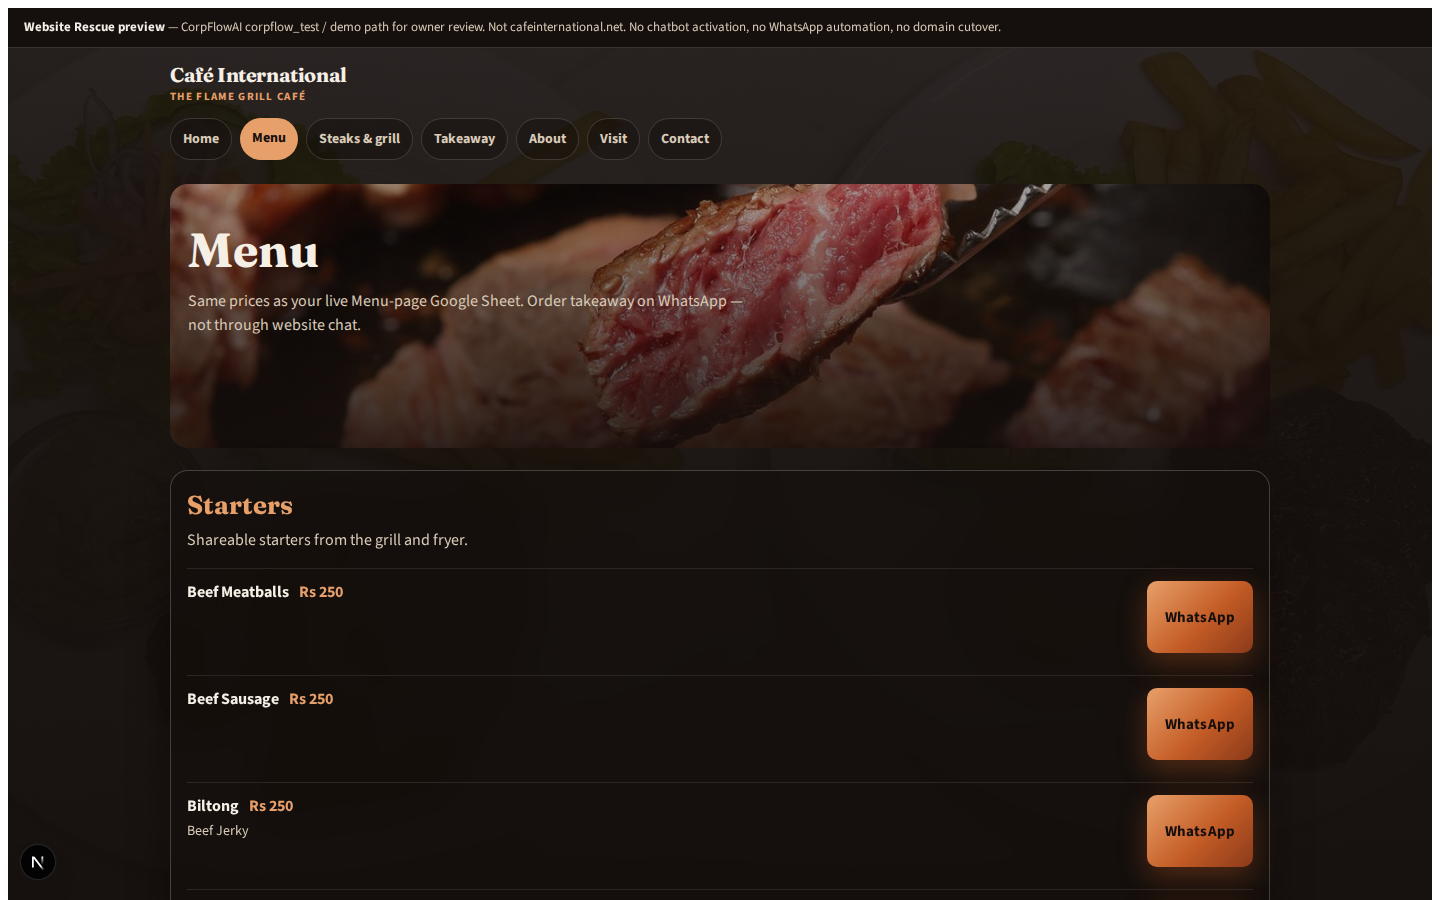
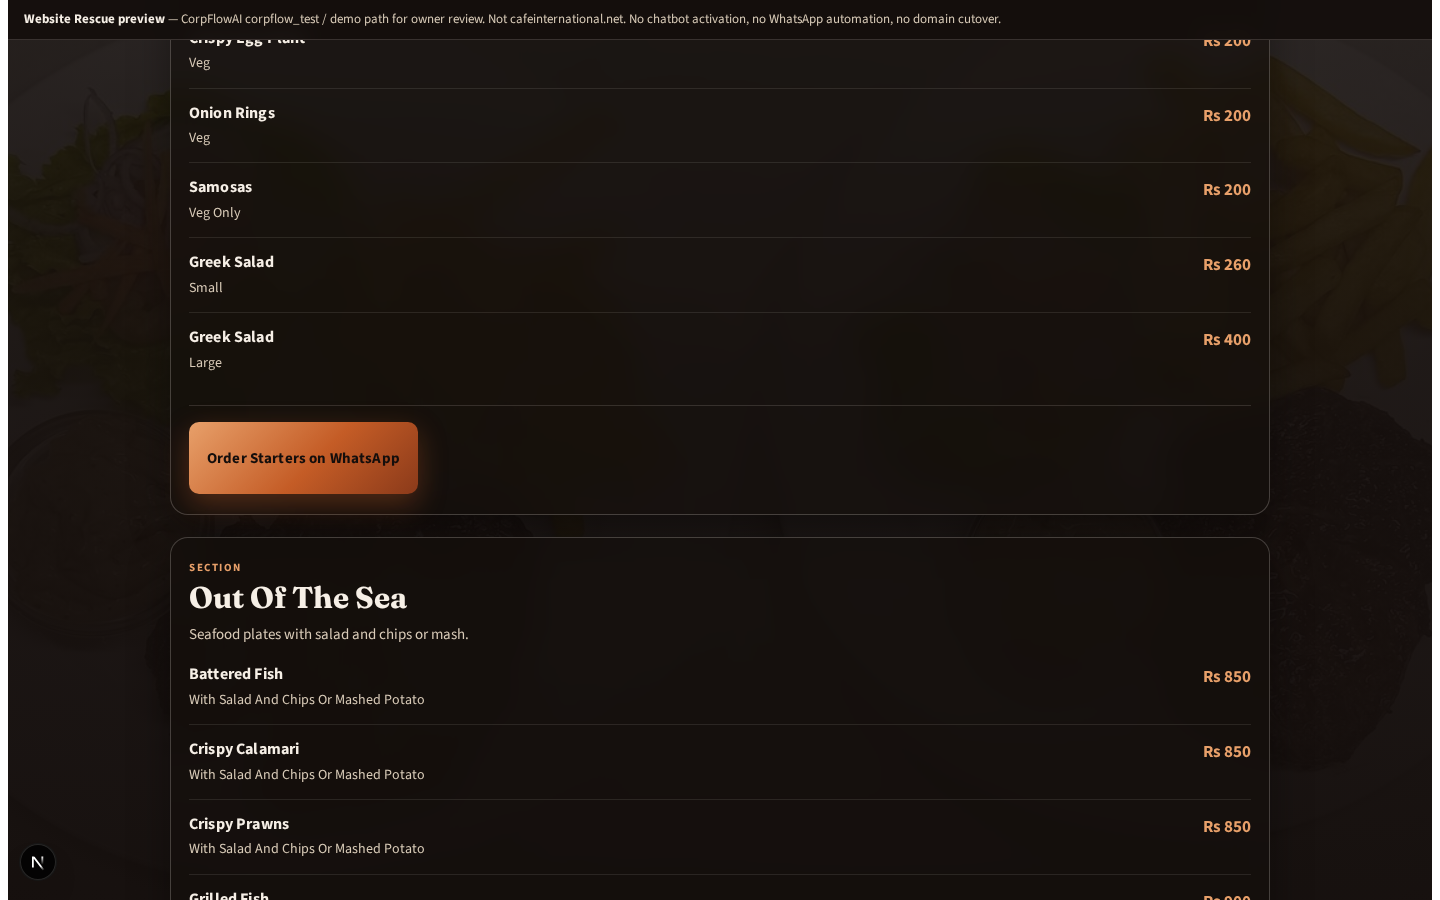
fix(cafe-international): one WhatsApp CTA per menu category
Remove repetitive per-item WhatsApp buttons. Menu sections now use
cleaner name/description/price rows with a single category-level
WhatsApp order CTA for a more restaurant-like scan.

diff --git a/pages/demo/cafe-international/menu.js b/pages/demo/cafe-international/menu.js
@@ -12,6 +12,28 @@ import {
 } from '../../../lib/website-rescue/cafe-international-preview.js';
 import { getCafeInternationalPreviewProps } from '../../../lib/website-rescue/cafe-international-preview-server.js';
 
+/** Short owner-facing WhatsApp CTA label per menu section. */
+function categoryWhatsAppLabel(categoryName) {
+  const name = String(categoryName || '').trim();
+  const map = {
+    Starters: 'Order Starters on WhatsApp',
+    'Out Of The Sea': 'Order Seafood on WhatsApp',
+    'For The Kids Under 10': 'Order Kids Meals on WhatsApp',
+    'From our Grill': 'Order Grill Specials on WhatsApp',
+    Platters: 'Order Platters on WhatsApp',
+    'Build a Burger': 'Order Burgers on WhatsApp',
+    'Topping, Chips and Sauce': 'Ask about toppings on WhatsApp',
+    'Sweet Endings Playground': 'Order Desserts on WhatsApp',
+    Drinks: 'Order Drinks on WhatsApp',
+  };
+  return map[name] || `Ask about ${name || 'this menu'} on WhatsApp`;
+}
+
+function categoryWhatsAppPrefill(categoryName) {
+  const label = String(categoryName || 'the menu').trim();
+  return `Hi Flame! I'd like to order from ${label}.\n\nPlease confirm availability and pickup time.`;
+}
+
 export default function CafeInternationalMenuPage({ truth, menu, nav }) {
   const categories = (menu.categories || []).filter((c) => c.id !== 'extras');
 
@@ -24,6 +46,28 @@ export default function CafeInternationalMenuPage({ truth, menu, nav }) {
       activeHref={`${CAFE_INTERNATIONAL_PREVIEW_BASE}/menu`}
       truth={truth}
     >
+      <style>{`
+        [data-cafe-menu-item] {
+          display: grid;
+          grid-template-columns: minmax(0, 1fr) auto;
+          gap: 8px 16px;
+          align-items: start;
+          padding: 14px 0;
+          border-top: 1px solid rgba(246,239,230,0.1);
+        }
+        [data-cafe-menu-item]:first-of-type { border-top: none; padding-top: 4px; }
+        @media (max-width: 560px) {
+          [data-cafe-menu-item] {
+            grid-template-columns: 1fr;
+            gap: 4px;
+          }
+          [data-cafe-menu-price] {
+            justify-self: start !important;
+            font-size: 16px !important;
+          }
+        }
+      `}</style>
+
       <div
         style={{
           borderRadius: 18,
@@ -50,73 +94,145 @@ export default function CafeInternationalMenuPage({ truth, menu, nav }) {
           Menu
         </h1>
         <p style={{ marginTop: 10, color: T.creamMuted, maxWidth: 560, lineHeight: 1.5 }}>
-          Same prices as your live Menu-page Google Sheet. Order takeaway on WhatsApp —
-          not through website chat.
+          Browse by section, then order the whole category on WhatsApp — not through
+          website chat.
         </p>
+        <div style={{ marginTop: 16 }}>
+          <ActionButton href={`${CAFE_INTERNATIONAL_PREVIEW_BASE}/takeaway`} primary>
+            Takeaway options
+          </ActionButton>
+        </div>
       </div>
 
-      <div style={{ display: 'grid', gap: 16, marginTop: 22 }}>
-        {categories.map((cat) => (
-          <CafeGlassPanel key={cat.id} id={cat.id} as="section" style={{ padding: '18px 16px' }}>
-            <h2
-              style={{
-                margin: 0,
-                fontFamily: T.fontDisplay,
-                fontSize: 26,
-                color: T.flameSoft,
-              }}
+      <div style={{ display: 'grid', gap: 22, marginTop: 26 }}>
+        {categories.map((cat) => {
+          const waHref = cafeInternationalWhatsAppHref(
+            truth.public_phone,
+            categoryWhatsAppPrefill(cat.name),
+          );
+          const waLabel = categoryWhatsAppLabel(cat.name);
+
+          return (
+            <CafeGlassPanel
+              key={cat.id}
+              id={cat.id}
+              as="section"
+              data-cafe-menu-category={cat.id}
+              style={{ padding: '22px 18px 20px' }}
             >
-              {cat.name}
-            </h2>
-            {cat.summary ? (
-              <p style={{ margin: '8px 0 0', color: T.creamMuted, lineHeight: 1.45 }}>
-                {cat.summary}
-              </p>
-            ) : null}
-            <div style={{ display: 'grid', gap: 10, marginTop: 16 }}>
-              {(cat.items || []).map((item, idx) => {
-                const price =
-                  item.price_display ||
-                  (item.price_mur != null ? `Rs ${item.price_mur}` : '');
-                const wa = cafeInternationalWhatsAppHref(
-                  truth.public_phone,
-                  `Hi Flame! I'd like to order:\n\n${item.name}${price ? ` - ${price}` : ''}\n\nPlease confirm availability and pickup time.`,
-                );
-                return (
-                  <div
-                    key={`${item.name}-${item.description || ''}-${idx}`}
+              <header style={{ marginBottom: 6 }}>
+                <div
+                  style={{
+                    fontSize: 11,
+                    letterSpacing: '0.14em',
+                    textTransform: 'uppercase',
+                    color: T.flameSoft,
+                    fontWeight: 800,
+                  }}
+                >
+                  Section
+                </div>
+                <h2
+                  style={{
+                    margin: '6px 0 0',
+                    fontFamily: T.fontDisplay,
+                    fontSize: 'clamp(24px, 3.5vw, 30px)',
+                    color: T.cream,
+                    lineHeight: 1.15,
+                  }}
+                >
+                  {cat.name}
+                </h2>
+                {cat.summary ? (
+                  <p
                     style={{
-                      display: 'flex',
-                      flexWrap: 'wrap',
-                      gap: 10,
-                      justifyContent: 'space-between',
-                      alignItems: 'flex-start',
-                      padding: '12px 0',
-                      borderTop: '1px solid rgba(246,239,230,0.1)',
+                      margin: '8px 0 0',
+                      color: T.creamMuted,
+                      lineHeight: 1.5,
+                      fontSize: 15,
+                      maxWidth: 520,
                     }}
                   >
-                    <div style={{ flex: '1 1 200px' }}>
-                      <div style={{ color: T.cream, fontWeight: 700, fontSize: 16 }}>
-                        {item.name}
-                        {price ? (
-                          <span style={{ color: T.flameSoft, marginLeft: 10 }}>{price}</span>
+                    {cat.summary}
+                  </p>
+                ) : null}
+              </header>
+
+              <div style={{ marginTop: 14 }} data-cafe-menu-items>
+                {(cat.items || []).map((item, idx) => {
+                  const price =
+                    item.price_display ||
+                    (item.price_mur != null ? `Rs ${item.price_mur}` : '');
+                  return (
+                    <div
+                      key={`${item.name}-${item.description || ''}-${idx}`}
+                      data-cafe-menu-item
+                    >
+                      <div style={{ minWidth: 0 }}>
+                        <div
+                          style={{
+                            color: T.cream,
+                            fontWeight: 700,
+                            fontSize: 16,
+                            lineHeight: 1.35,
+                            letterSpacing: '0.01em',
+                          }}
+                        >
+                          {item.name}
+                        </div>
+                        {item.description ? (
+                          <div
+                            style={{
+                              marginTop: 4,
+                              color: T.creamMuted,
+                              fontSize: 14,
+                              lineHeight: 1.45,
+                            }}
+                          >
+                            {item.description}
+                          </div>
                         ) : null}
                       </div>
-                      {item.description ? (
-                        <div style={{ marginTop: 4, color: T.creamMuted, fontSize: 14 }}>
-                          {item.description}
+                      {price ? (
+                        <div
+                          data-cafe-menu-price
+                          style={{
+                            color: T.flameSoft,
+                            fontWeight: 700,
+                            fontSize: 17,
+                            fontVariantNumeric: 'tabular-nums',
+                            whiteSpace: 'nowrap',
+                            justifySelf: 'end',
+                            paddingTop: 1,
+                          }}
+                        >
+                          {price}
                         </div>
                       ) : null}
                     </div>
-                    <ActionButton href={wa} primary>
-                      WhatsApp
-                    </ActionButton>
-                  </div>
-                );
-              })}
-            </div>
-          </CafeGlassPanel>
-        ))}
+                  );
+                })}
+              </div>
+
+              <div
+                data-cafe-category-whatsapp
+                style={{
+                  marginTop: 18,
+                  paddingTop: 16,
+                  borderTop: '1px solid rgba(246,239,230,0.14)',
+                  display: 'flex',
+                  flexWrap: 'wrap',
+                  gap: 10,
+                  alignItems: 'center',
+                }}
+              >
+                <ActionButton href={waHref} primary>
+                  {waLabel}
+                </ActionButton>
+              </div>
+            </CafeGlassPanel>
+          );
+        })}
       </div>
 
       {(menu.notes || []).length ? (
